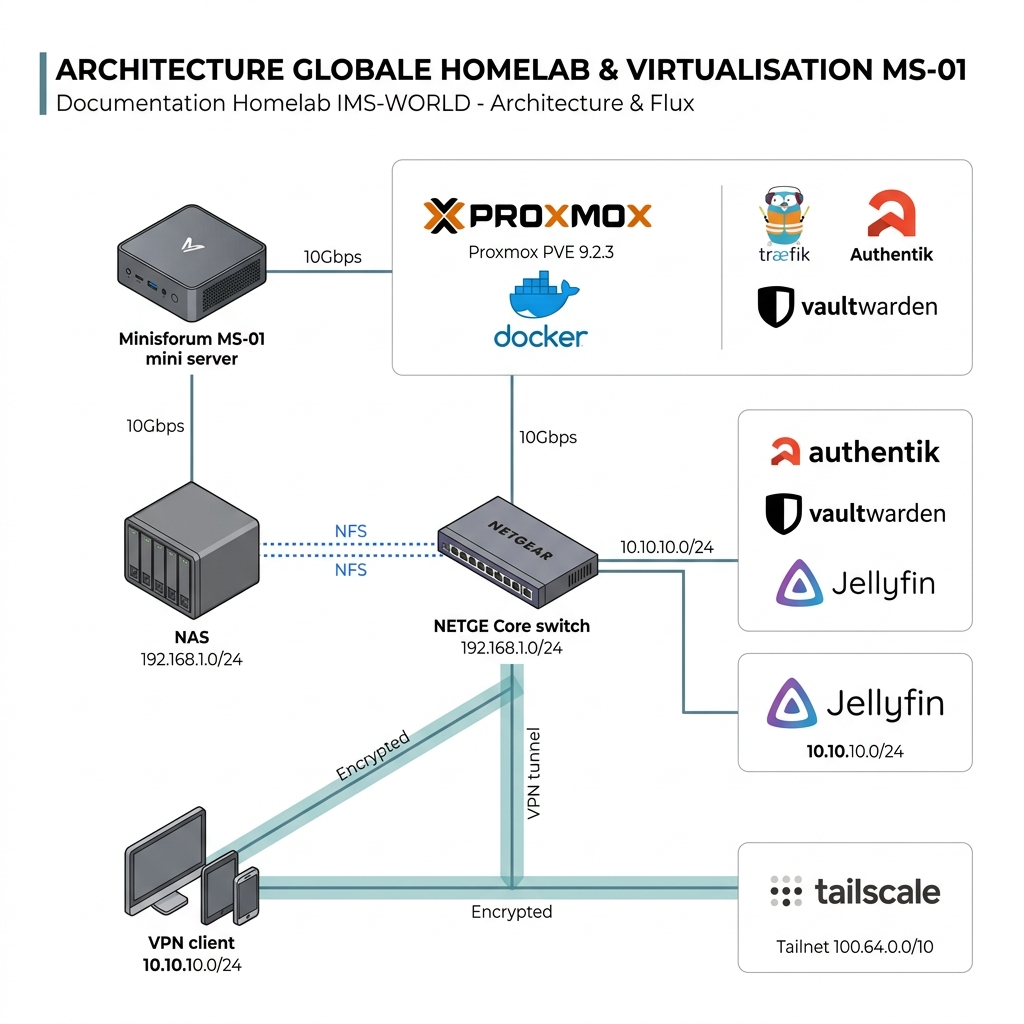
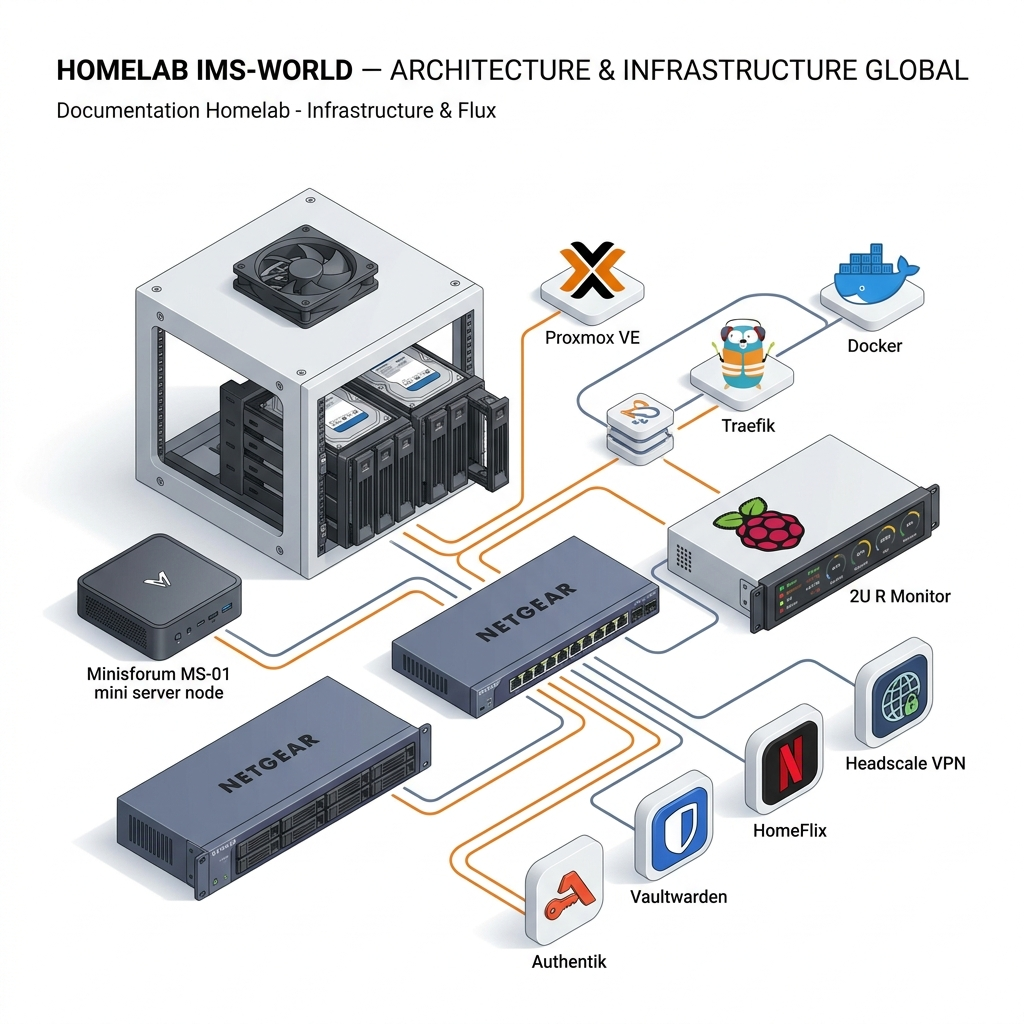
feat: ajout de la nouvelle banniere 3D d'en-tete master et conservation du grand schema Mermaid macro sur index.md

diff --git a/index.md b/index.md
@@ -3,6 +3,81 @@ title: "Vue d'ensemble"
 description: "Infrastructure self-hosted IMS-WORLD — architecture, principes et état actuel"
 ---
 
+![Architecture Homelab IMS-WORLD — Vue Globale](/assets/hero-banner.png)
+
+<CardGroup cols={4}>
+  <Card title="1 Hôte Proxmox" icon="server" href="/infrastructure/proxmox-host">
+    Minisforum MS-01 (14 vCPU / 32 Go RAM)
+  </Card>
+  <Card title="2 LXC & 1 VM" icon="box" href="/infrastructure/vm-coolify">
+    IMS-NAS (100), IMS-PBS (103), VM Coolify (104)
+  </Card>
+  <Card title="100% Chiffré" icon="shield-check" href="/reseau/matrice-securite-exposition">
+    ACME DNS-01 & Headscale Tailnet
+  </Card>
+  <Card title="0€ SaaS / Mois" icon="euro-sign" href="/history/chronologie">
+    100% Self-Hosted & matériel possédé
+  </Card>
+</CardGroup>
+
+## Principes Directeurs
+
+L'infrastructure IMS-WORLD repose sur trois principes non négociables :
+
+<CardGroup cols={3}>
+  <Card title="100% Local" icon="house">
+    Aucune dépendance à un cloud tiers pour les services critiques. Auto-hébergement complet sur le cluster physique.
+  </Card>
+  <Card title="0€ Récurrent" icon="euro-sign">
+    Uniquement du matériel possédé et des logiciels open-source. Aucun abonnement SaaS.
+  </Card>
+  <Card title="Lean & Efficient" icon="feather">
+    Complexité activement challengée. Pas de sur-ingénierie — chaque brique ajoutée doit se justifier.
+  </Card>
+</CardGroup>
+
+## ⚡ Accès Rapides — Cockpit Homelab
+
+<Tabs>
+  <Tab title="🛠 Administration & Ops">
+    <CardGroup cols={3}>
+      <Card title="Proxmox VE GUI" icon="server" href="https://192.168.1.41:8006">
+        Hyperviseur PVE MS-01 (`192.168.1.41:8006`)
+      </Card>
+      <Card title="Coolify Admin" icon="rocket" href="https://coolify.ims-world.fr">
+        Orchestration Docker (`coolify.ims-world.fr`)
+      </Card>
+      <Card title="Headplane Admin" icon="network-wired" href="https://vpn.ims-world.fr/admin">
+        Tailnet VPN GUI (`vpn.ims-world.fr/admin`)
+      </Card>
+    </CardGroup>
+  </Tab>
+  <Tab title="🌐 Services Web Applicatifs">
+    <CardGroup cols={3}>
+      <Card title="Authentik SSO" icon="key" href="https://auth.ims-world.fr">
+        Provider OIDC & SSO (`auth.ims-world.fr`)
+      </Card>
+      <Card title="Vaultwarden" icon="shield-halved" href="https://vault.ims-world.fr">
+        Coffre Mots de Passe (`vault.ims-world.fr`)
+      </Card>
+      <Card title="HomeFlix Streaming" icon="clapperboard" href="https://homeflix.ims-world.fr">
+        Jellyfin Streaming (`homeflix.ims-world.fr`)
+      </Card>
+    </CardGroup>
+  </Tab>
+</Tabs>
+
+## 🗄 Rack Physique & Châssis Labrax
+
+<CardGroup cols={2}>
+  <Card title="Rack Serveur Physique Labrax" icon="cubes" href="/infrastructure/labrax">
+    Châssis 3D-printé MakerWorld (Core IMS-01), ventilateur supérieur Noctua Industrial PPC, switch NETGEAR GS308EV4, 4 caddies Dell PowerEdge 3.5" et alimentation PicoPSU 160W.
+  </Card>
+  <Card title="Sonde de Monitoring & Écran 2U" icon="display" href="/infrastructure/rpi-monitor">
+    Raspberry Pi 3B+ sur module 2U dédié, pilotant l'écran de statut LCD/OLED frontal et assurant le monitoring hors-bande du cluster.
+  </Card>
+</CardGroup>
+
 ## Schéma d'Architecture Macro Globale
 
 ```mermaid
@@ -86,79 +161,6 @@ flowchart TB
     class VPN_CLIENTS,HEADSCALE_SRV,HEADPLANE vpn;
     class PVE_HOST,NAS_LXC,PBS_LXC,TRAEFIK host;
 ```
-
-<CardGroup cols={4}>
-  <Card title="1 Hôte Proxmox" icon="server" href="/infrastructure/proxmox-host">
-    Minisforum MS-01 (14 vCPU / 32 Go RAM)
-  </Card>
-  <Card title="2 LXC & 1 VM" icon="box" href="/infrastructure/vm-coolify">
-    IMS-NAS (100), IMS-PBS (103), VM Coolify (104)
-  </Card>
-  <Card title="100% Chiffré" icon="shield-check" href="/reseau/matrice-securite-exposition">
-    ACME DNS-01 & Headscale Tailnet
-  </Card>
-  <Card title="0€ SaaS / Mois" icon="euro-sign" href="/history/chronologie">
-    100% Self-Hosted & matériel possédé
-  </Card>
-</CardGroup>
-
-## Principes Directeurs
-
-L'infrastructure IMS-WORLD repose sur trois principes non négociables :
-
-<CardGroup cols={3}>
-  <Card title="100% Local" icon="house">
-    Aucune dépendance à un cloud tiers pour les services critiques. Auto-hébergement complet sur le cluster physique.
-  </Card>
-  <Card title="0€ Récurrent" icon="euro-sign">
-    Uniquement du matériel possédé et des logiciels open-source. Aucun abonnement SaaS.
-  </Card>
-  <Card title="Lean & Efficient" icon="feather">
-    Complexité activement challengée. Pas de sur-ingénierie — chaque brique ajoutée doit se justifier.
-  </Card>
-</CardGroup>
-
-## ⚡ Accès Rapides — Cockpit Homelab
-
-<Tabs>
-  <Tab title="🛠 Administration & Ops">
-    <CardGroup cols={3}>
-      <Card title="Proxmox VE GUI" icon="server" href="https://192.168.1.41:8006">
-        Hyperviseur PVE MS-01 (`192.168.1.41:8006`)
-      </Card>
-      <Card title="Coolify Admin" icon="rocket" href="https://coolify.ims-world.fr">
-        Orchestration Docker (`coolify.ims-world.fr`)
-      </Card>
-      <Card title="Headplane Admin" icon="network-wired" href="https://vpn.ims-world.fr/admin">
-        Tailnet VPN GUI (`vpn.ims-world.fr/admin`)
-      </Card>
-    </CardGroup>
-  </Tab>
-  <Tab title="🌐 Services Web Applicatifs">
-    <CardGroup cols={3}>
-      <Card title="Authentik SSO" icon="key" href="https://auth.ims-world.fr">
-        Provider OIDC & SSO (`auth.ims-world.fr`)
-      </Card>
-      <Card title="Vaultwarden" icon="shield-halved" href="https://vault.ims-world.fr">
-        Coffre Mots de Passe (`vault.ims-world.fr`)
-      </Card>
-      <Card title="HomeFlix Streaming" icon="clapperboard" href="https://homeflix.ims-world.fr">
-        Jellyfin Streaming (`homeflix.ims-world.fr`)
-      </Card>
-    </CardGroup>
-  </Tab>
-</Tabs>
-
-## 🗄 Rack Physique & Châssis Labrax
-
-<CardGroup cols={2}>
-  <Card title="Rack Serveur Physique Labrax" icon="cubes" href="/infrastructure/labrax">
-    Châssis 3D-printé MakerWorld (Core IMS-01), ventilateur supérieur Noctua Industrial PPC, switch NETGEAR GS308EV4, 4 caddies Dell PowerEdge 3.5" et alimentation PicoPSU 160W.
-  </Card>
-  <Card title="Sonde de Monitoring & Écran 2U" icon="display" href="/infrastructure/rpi-monitor">
-    Raspberry Pi 3B+ sur module 2U dédié, pilotant l'écran de statut LCD/OLED frontal et assurant le monitoring hors-bande du cluster.
-  </Card>
-</CardGroup>
 
 ## État Actuel des Composants
 
